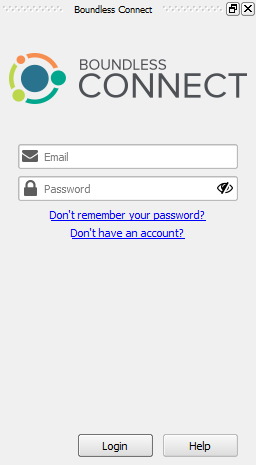
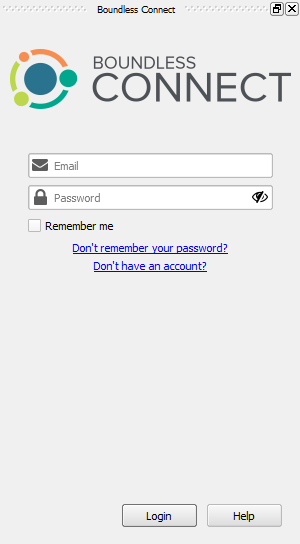
Updates Documentation

diff --git a/docs/source/usage.rst b/docs/source/usage.rst
@@ -28,10 +28,11 @@ If you want to install Boundless plugins from the remote *Boundless QGIS Plugin
 Repository* or search and access `Boundless Connect
 <https://connect.boundlessgeo.com/>`_ additional resources, you will need to
 enter `Boundless Connect <https://connect.boundlessgeo.com/>`_ credentials in
-the :guilabel:`email` and :guilabel:`password` fields, and press
-:guilabel:`Login`.
+the :guilabel:`email` and :guilabel:`password` fields. If you wish the plugin to
+fill in your the credentials for you in future sessions, enable the
+:guilabel:`Remember me` option. Press :guilabel:`Login`.
 
-After pressing the :guilabel:`Login` button, |connect_plugin| will try to
+After you press the :guilabel:`Login` button, |connect_plugin| will try to
 validate your credentials in Boundless Connect portal (internet connection is
 needed). If the credentials are valid, it will save them in QGIS's
 authentication encrypted database, so that you don't have to enter them again.
@@ -60,10 +61,10 @@ authentication encrypted database, so that you don't have to enter them again.
       Entering QGIS master authentication password
 
 If the credentials are invalid (unknown email or wrong password), you will see
-a message dialog, asking you what to do.
+a message dialog, asking you what to do:
 
-* Press :guilabel:`No` to enter valid credentials and try again
-* Press :guilabel:`Yes` to use/save the invalid credentials
+* Press :guilabel:`No` to enter valid credentials and try again,
+* Or press :guilabel:`Yes` to use/save the invalid credentials.
 
 .. figure:: img/invalid-credentials.png
    :align: center
@@ -109,7 +110,8 @@ Connect.
 
 Under the search field, there are three tabs which allow you to choose the
 type content to search for: :guilabel:`Knowledge`, :guilabel:`Data`, and
-:guilabel:`Plugins`.
+:guilabel:`Plugins`. By default, after the login, the :guilabel:`Knowledge` tab
+is open, and all its content listed.
 
 At the bottom of the :guilabel:`Boundless Connect` panel, you can find the
 user's email you have logged with and a :guilabel:`Logout` button (clicking the
@@ -129,11 +131,16 @@ on your keyboard).
 Clicking the :guilabel:`Search` icon (or press :kbd:`Enter` on your keyboard)
 without entering any keyword will list all results for the current tab.
 
-At the top of the results list, is shown the number of results. Each item of
-the search results will show an icon, a title and a description
+Each item of results list will show an icon, a title and a description
 about it. There will also be some buttons that, depending on the type of
 resource found, will allow different actions. See the next sub-sections for
 more details.
+
+If the search returns too many results, the list will be paginated. In that
+case, at the bottom of the results list, you will find :guilabel:`NEXT` and
+:guilabel:`PREV` buttons to navigate between result pages.
+
+.. figure:: img/page_navigation_buttons.png
 
 .. note::
 
@@ -177,12 +184,6 @@ clicking **Open** will open it in your default web browser.
 
    .. figure:: img/enter_credentials_in_learning_center.png
 
-In the :guilabel:`Knowledge` tab, clicking the :guilabel:`Search` icon (or
-pressing :kbd:`Enter` on your keyboard) without entering any keyword will list
-all knowledge resources, which are thousands. Therefore, we strongly
-suggest you filter the search using the categories (for example, select only
-the *Lessons* category to list all lessons available).
-
 .. _connect-data-tab:
 
 Data tab
@@ -199,10 +200,6 @@ will be two action buttons available:
 
 .. figure:: img/data_tab.png
 
-To list all available data resources, click the
-:guilabel:`Search` icon (or press :kbd:`Enter` on your keyboard) without
-entering any keyword.
-
 Plugins tab
 ...........
 
@@ -212,8 +209,6 @@ download and install the plugin easily.
 
 .. figure:: img/plugin_tab.png
 
-To list all available Boundless Plugins for QGIS, click the :guilabel:`Search`
-icon (or press :kbd:`Enter` on your keyboard) without entering any keyword.
 
 .. note::
 
